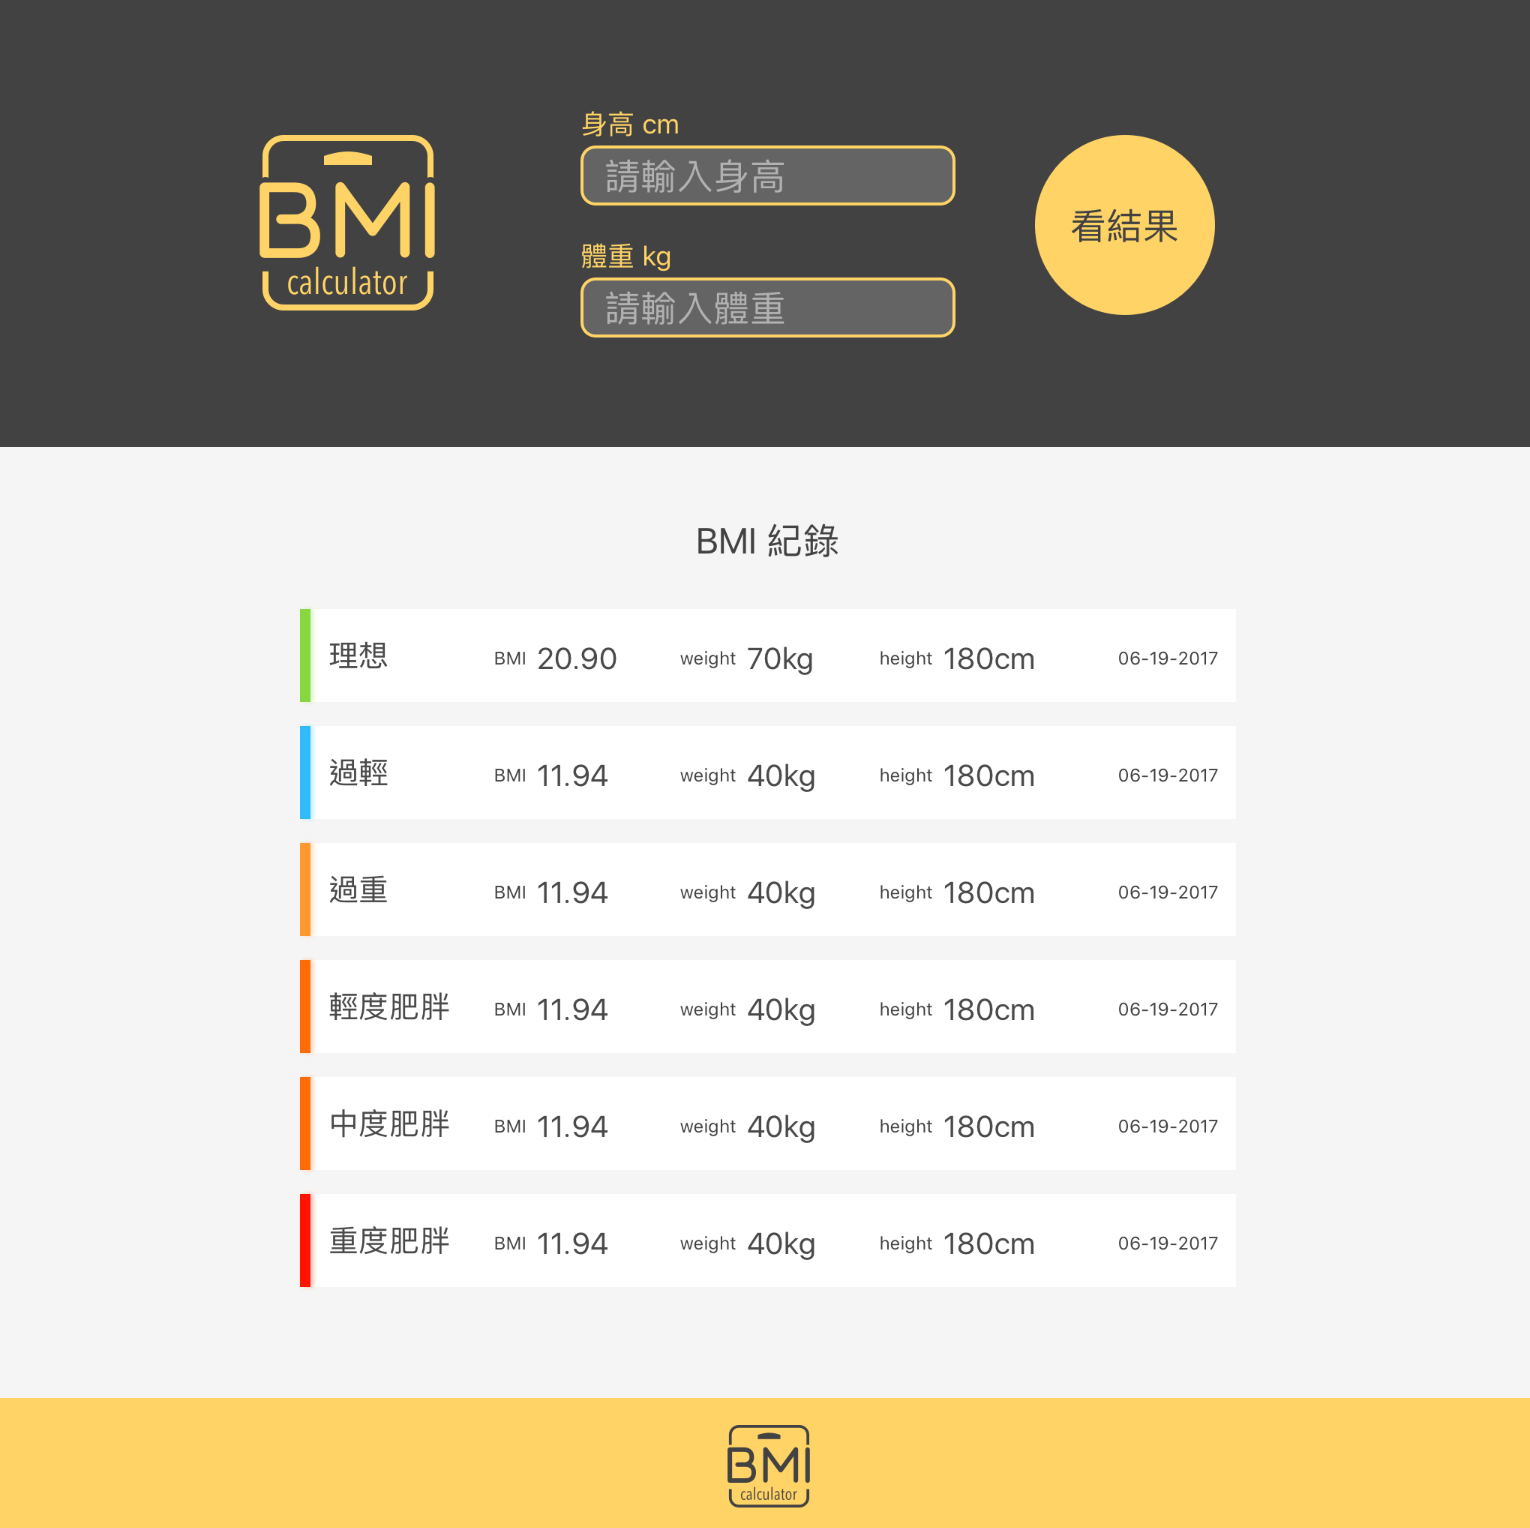
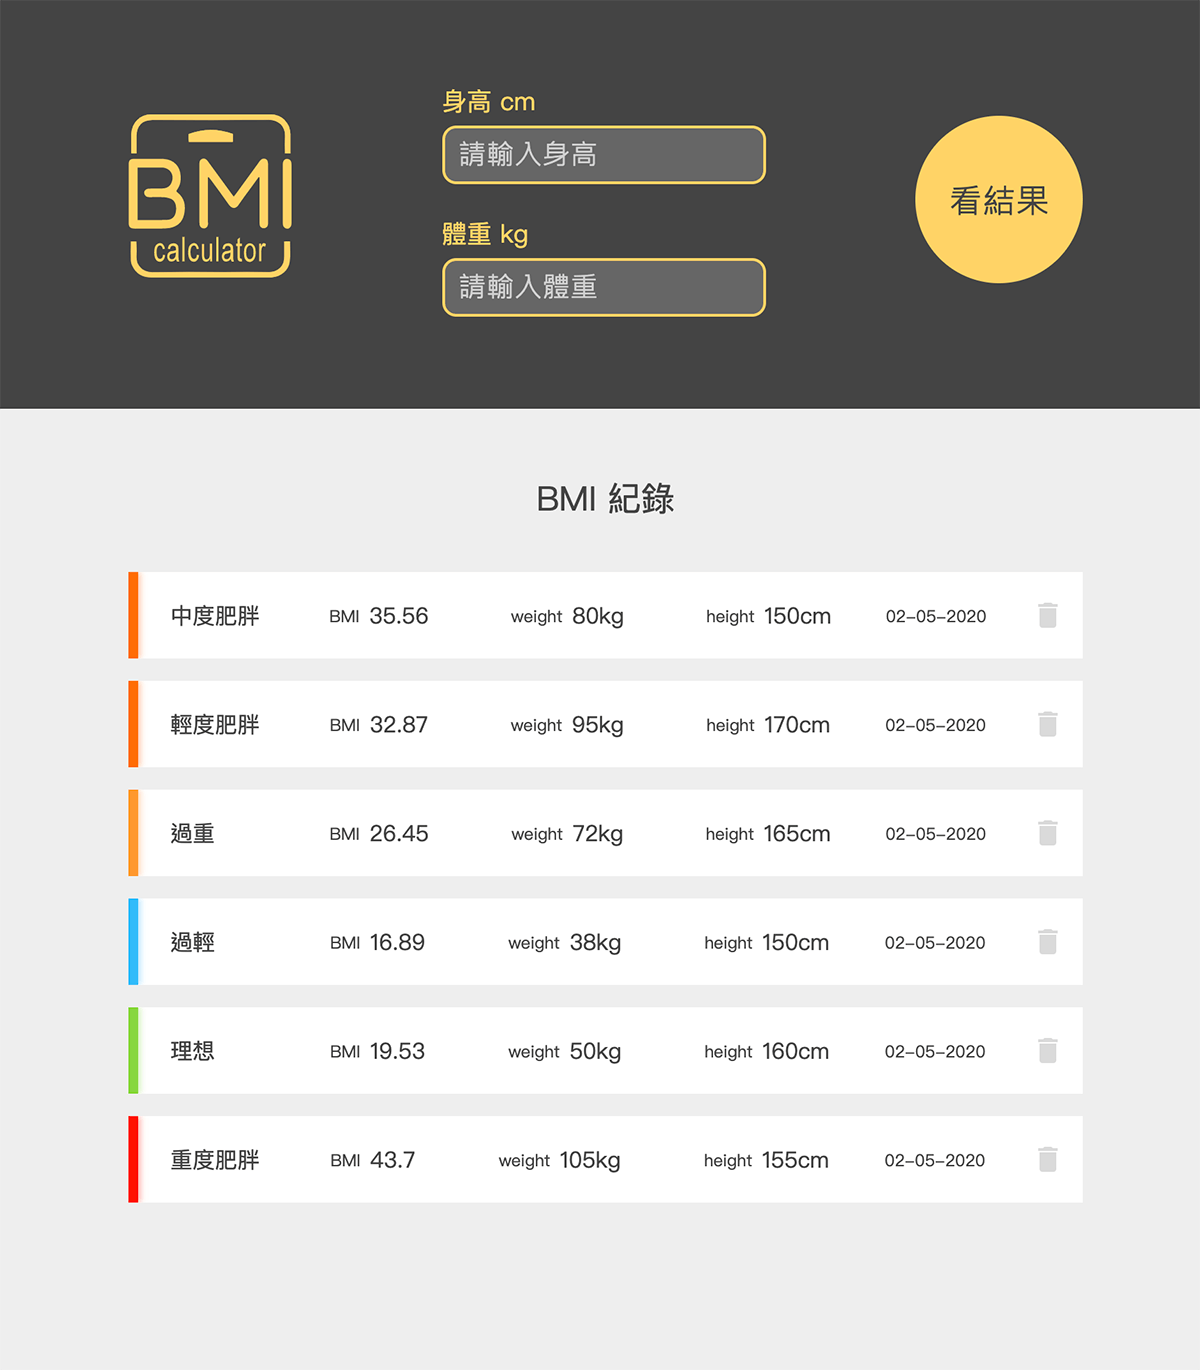
BMI readme update

diff --git a/BMI/readme.md b/BMI/readme.md
@@ -1,3 +1,18 @@
 # BMI 計算機
-[作業說明](https://hexschool.github.io/JavaScript_HomeWork/)
 <img src="webroot/images/bmi_01.png" width="700">
+
+作業標示文件：[https://hexschool.github.io/JavaScript_HomeWork/](https://hexschool.github.io/JavaScript_HomeWork/)
+
+成品Demo：[https://erica1123.github.io/works/BMI/](https://erica1123.github.io/works/BMI/)
+
+基本功能需求：
+* 計算 BMI
+* 判斷 BMI 範圍
+* 重新輸入數值
+* 儲存 LS 紀錄 BMI 等數值
+* 印出紀錄日期
+
+擴充功能：
+* 檢查 input 值是否正確
+* BMI 紀錄排序（目前尚有問題）
+* 刪除紀錄
